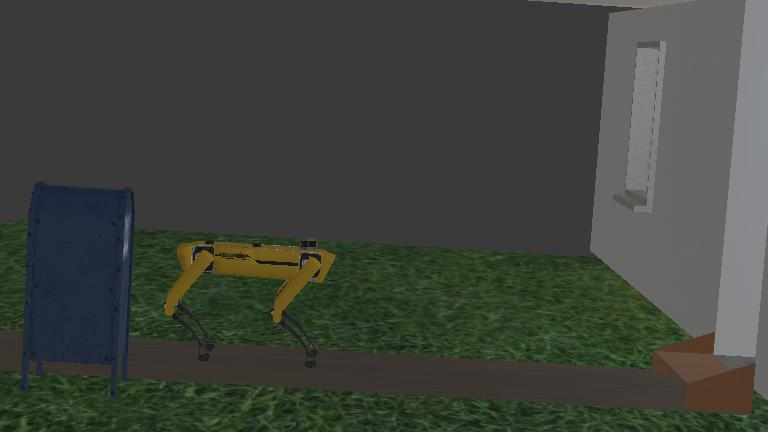
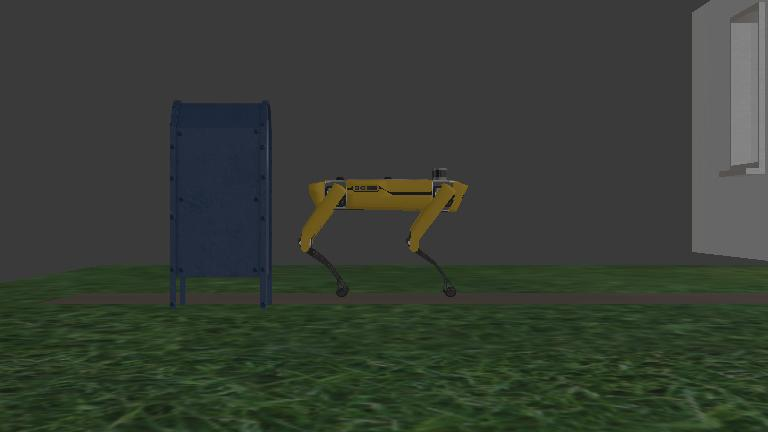
WORKING FT CONTROLLER -- NEED TO TEST YAW CONTROL

diff --git a/home_environment/controllers/spot_flat_walk/spot_flat_walk.py b/home_environment/controllers/spot_flat_walk/spot_flat_walk.py
@@ -78,15 +78,28 @@ class Sim:
 
     # ------------------ Inputs for Bezier Gait control ----------------
     self.yaw_d = 0.0
-    self.Step_Length = 0.0
-    self.Lateral_Fraction = 0.0
-    self.Yaw_Rate = 0.0
-    self.Step_Velocity = 0.0
-    self.Clearance_Height = 0.0
-    self.Penetration_Depth = 0.0
-    self.Swing_Period = 0.0
-    self.Yaw_Control = 0.0
-    self.Yaw_Control_On = False
+    self.SPEED=2.0
+    self.STEP_DIRECTION=1 #fwd:1; left/right:0.1
+    self.TURN=0.5
+    self.STEP_LENGTH = 0.024
+    self.LATERAL_FRACTION = 0.0
+    self.YAW_RATE = 0.0
+    self.STEP_VELOCITY = 0.01
+    self.CLEARANCE_HEIGHT = 0.024
+    self.PENETRATION_DEPTH = 0.003
+    self.SWING_PERIOD = 0.2
+    self.YAW_CONTROL = 0.0
+    self.YAW_CONTROL_ON = False
+    # self.yaw_d = 0.0
+    # self.STEP_LENGTH = 0.0
+    # self.LATERAL_FRACTION = 0.0
+    # self.YAW_RATE = 0.0
+    # self.STEP_VELOCITY = 0.0
+    # self.CLEARANCE_HEIGHT = 0.0
+    # self.PENETRATION_DEPTH = 0.0
+    # self.SWING_PERIOD = 0.0
+    # self.YAW_CONTROL = 0.0
+    # self.YAW_CONTROL_ON = False
 
     # ------------------ Outputs of Contact sensors ----------------
     self.legContacts = [1, 1, 1, 1]
@@ -153,30 +166,32 @@ class Sim:
 
   def yaw_control(self):
     """ Yaw body controller"""
-    yaw_target = self.Yaw_Control
+    yaw_target = self.YAW_CONTROL
     thr = np.pi / 2
     if (yaw_target > thr and self.yaw_dot < -thr) or (self.yaw_dot > thr and yaw_target < -thr):
       residual = (yaw_target - self.yaw_dot) * np.sign(yaw_target - self.yaw_dot) - 2 * np.pi
-      yawrate_d = 2.0 * np.sqrt(abs(residual)) * np.sign(residual)
+      yaw_rate_d = 2.0 * np.sqrt(abs(residual)) * np.sign(residual)
     else:
       residual = yaw_target - self.yaw_dot
-      yawrate_d = 4.0 * np.sqrt(abs(residual)) * np.sign(residual)
-    return yawrate_d
+      yaw_rate_d = 4.0 * np.sqrt(abs(residual)) * np.sign(residual)
+    return yaw_rate_d
 
   def inverse_control(self, pos, orn):
     # yaw controller
-    if self.Yaw_Control_On == 1.0:
-      YawRate_desired = self.yaw_control()
+    if self.YAW_CONTROL_ON == 1.0:
+      YAW_RATE_d = self.yaw_control()
     else:
-      YawRate_desired = self.Yaw_Rate
+      YAW_RATE_d = self.YAW_RATE
 
     # Update Swing Period
-    self.bzg.Tswing = self.Swing_Period
+    self.bzg.Tswing = self.SWING_PERIOD
 
     # Get Desired Foot Poses
-    T_bf = self.bzg.GenerateTrajectory(self.Step_Length, self.Lateral_Fraction, YawRate_desired,
-                                        self.Step_Velocity, self.T_bf0, self.T_bf,
-                                        self.Clearance_Height, self.Penetration_Depth,
+    step_length=self.STEP_LENGTH * self.STEP_DIRECTION * self.SPEED
+    yaw_rate=YAW_RATE_d * self.TURN
+    T_bf = self.bzg.GenerateTrajectory(step_length, self.LATERAL_FRACTION, yaw_rate,
+                                        self.STEP_VELOCITY, self.T_bf0, self.T_bf,
+                                        self.CLEARANCE_HEIGHT, self.PENETRATION_DEPTH,
                                         self.legContacts)
 
     joint_angles = -self.spotModel.IK(orn, pos, T_bf)
@@ -197,7 +212,7 @@ def main():
   # SIM LOOP
   while True:
     # SET DESIRED POSE
-    pos = np.array([0, 0, 0.3])
+    pos = np.array([0, 0, 0.1])
     orn = np.array([0, 0, 0])
 
     # CALL INVERSE CONTROL ON DESIRED POSE
